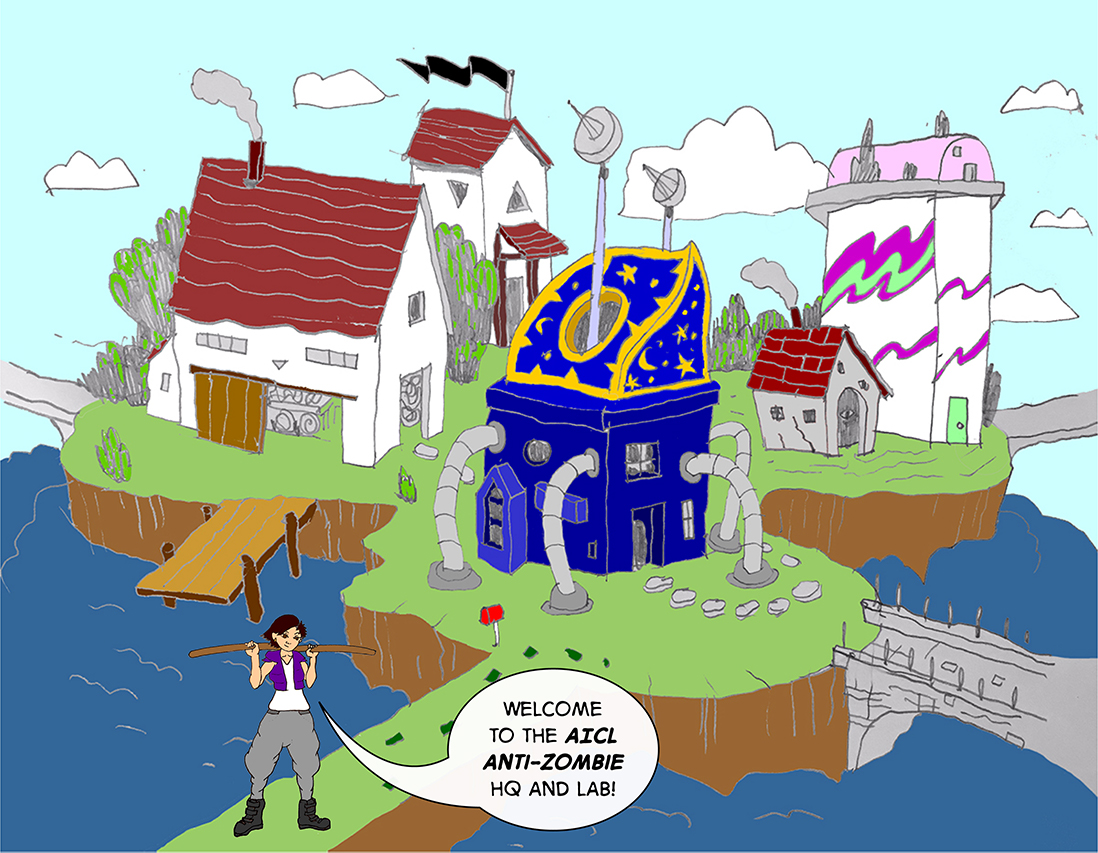
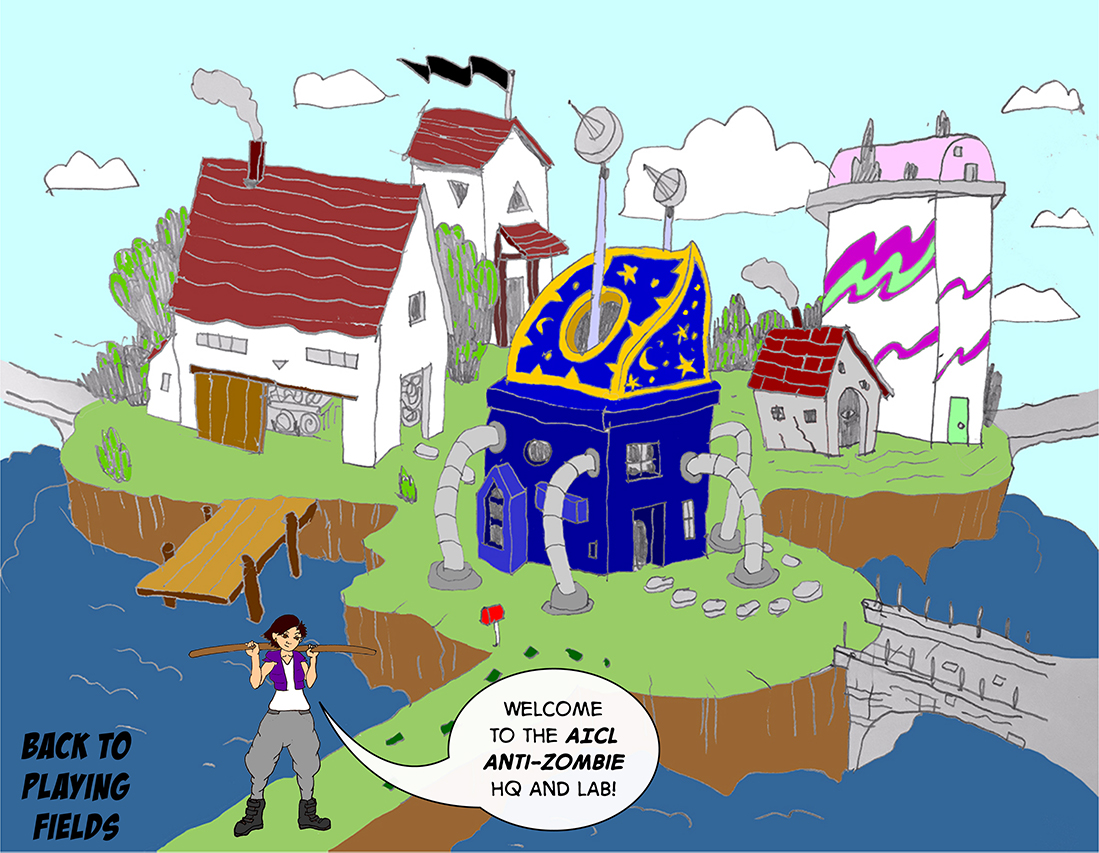
added exit to anti-zombie hq map

Changed region(s): [[0.0, 0.8535, 0.1239, 1.0], [0.4335, 0.823, 0.5574, 0.9449], [0.2477, 0.762, 0.3097, 0.823]]

diff --git a/anti_zombie_hq.html b/anti_zombie_hq.html
@@ -25,7 +25,8 @@
     <area target="" alt="Wooden Dock" title="Wooden Dock" href="" coords="226,496,129,590,231,601,320,495" shape="poly">
     <area target="" alt="Secret Hacker Lab pipes 1" title="Secret Hacker Lab pipes 1" href="" coords="485,425,465,432,452,446,442,469,437,493,431,510,437,540,441,563,432,565,426,584,432,592,478,591,484,582,467,562,460,540,457,511,468,462,478,451,486,448" shape="poly">
     <area target="" alt="Secret Hacker Lab pipes 2" title="Secret Hacker Lab pipes 2" href="" coords="714,425,733,422,747,429,749,449,748,473,752,486,758,513,760,537,768,560,773,568,765,583,738,586,727,577,712,547,712,530,720,520,727,484,711,472" shape="poly">
-    <area target="" alt="Moat section 1" title="Moat section 1" href="" coords="58,449,38,442,14,454,1,460,2,850,156,851,248,792,249,776,245,758,266,695,242,684,247,670,188,664,185,647,244,633,262,626,292,612,316,632,340,634,341,603,343,584,363,570,363,559,306,551,284,544,263,577,242,596,231,611,124,594,154,562,103,549,69,523" shape="poly">
+    <area target="" alt="Back to Playing Fields" title="Back to Playing Fields" href="https://aicl2020.github.io/spooky_playing_fields.html" coords="15,729,137,847" shape="rect">
+    <area target="" alt="Moat Section 1" title="Moat Section 1" href="" coords="60,455,41,444,9,450,4,464,5,725,145,725,144,848,158,852,174,834,193,821,211,818,230,803,245,791,236,763,243,736,251,716,248,694,232,665,193,674,185,655,204,642,243,639,260,635,274,623,290,614,304,621,314,641,345,644,343,614,336,598,357,573,332,564,304,557,309,580,295,587,281,574,282,565,267,586,270,616,257,630,242,604,228,617,184,611,184,620,158,614,131,599,135,576,139,565,90,545,71,526" shape="poly">
     <area target="" alt="Moat section 2" title="Moat section 2" href="" coords="447,852,490,815,520,829,544,831,569,831,591,824,614,816,635,802,650,785,658,766,729,795,749,772,815,768,839,780,846,769,854,768,892,749,904,734,922,712,955,719,988,731,1029,749,1064,769,1095,791,1097,798,1098,852" shape="poly">
     <area target="" alt="Spooky Cabin" title="Spooky Cabin" href="" coords="771,325,746,383,753,388,763,450,835,454,843,454,840,396,848,387,861,395,864,408,861,441,860,453,872,451,881,396,892,394,845,325" shape="poly">
     <area target="" alt="Spooky Cabin Eye" title="Spooky Cabin Eye" href="" coords="845,398,860,406,857,424,843,436,839,412" shape="poly">
